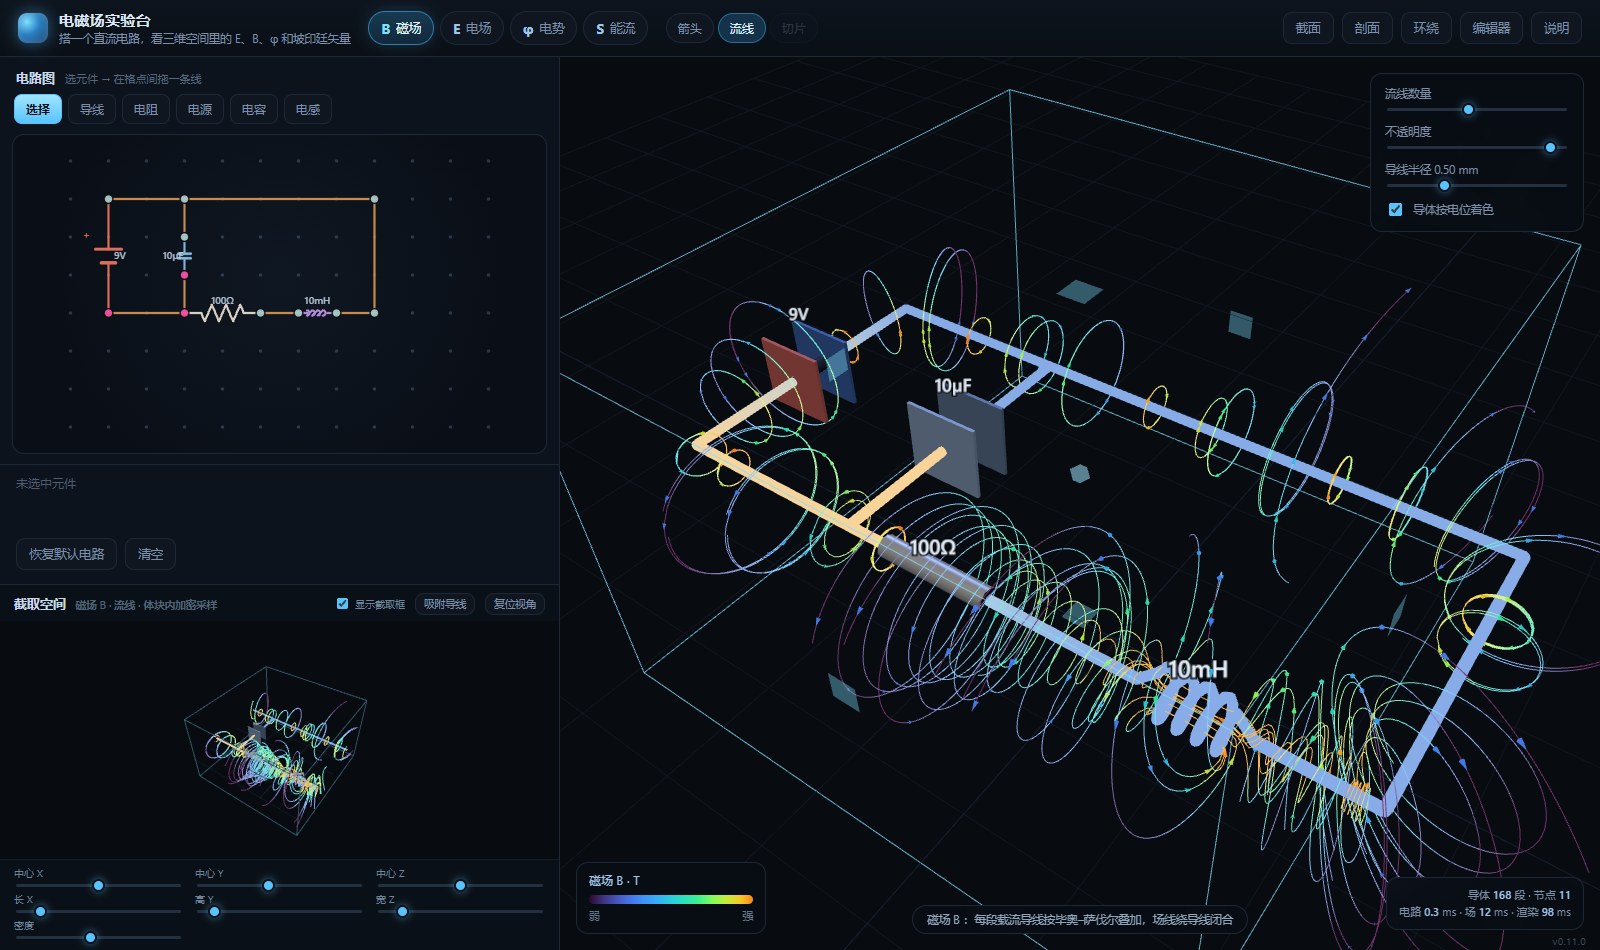
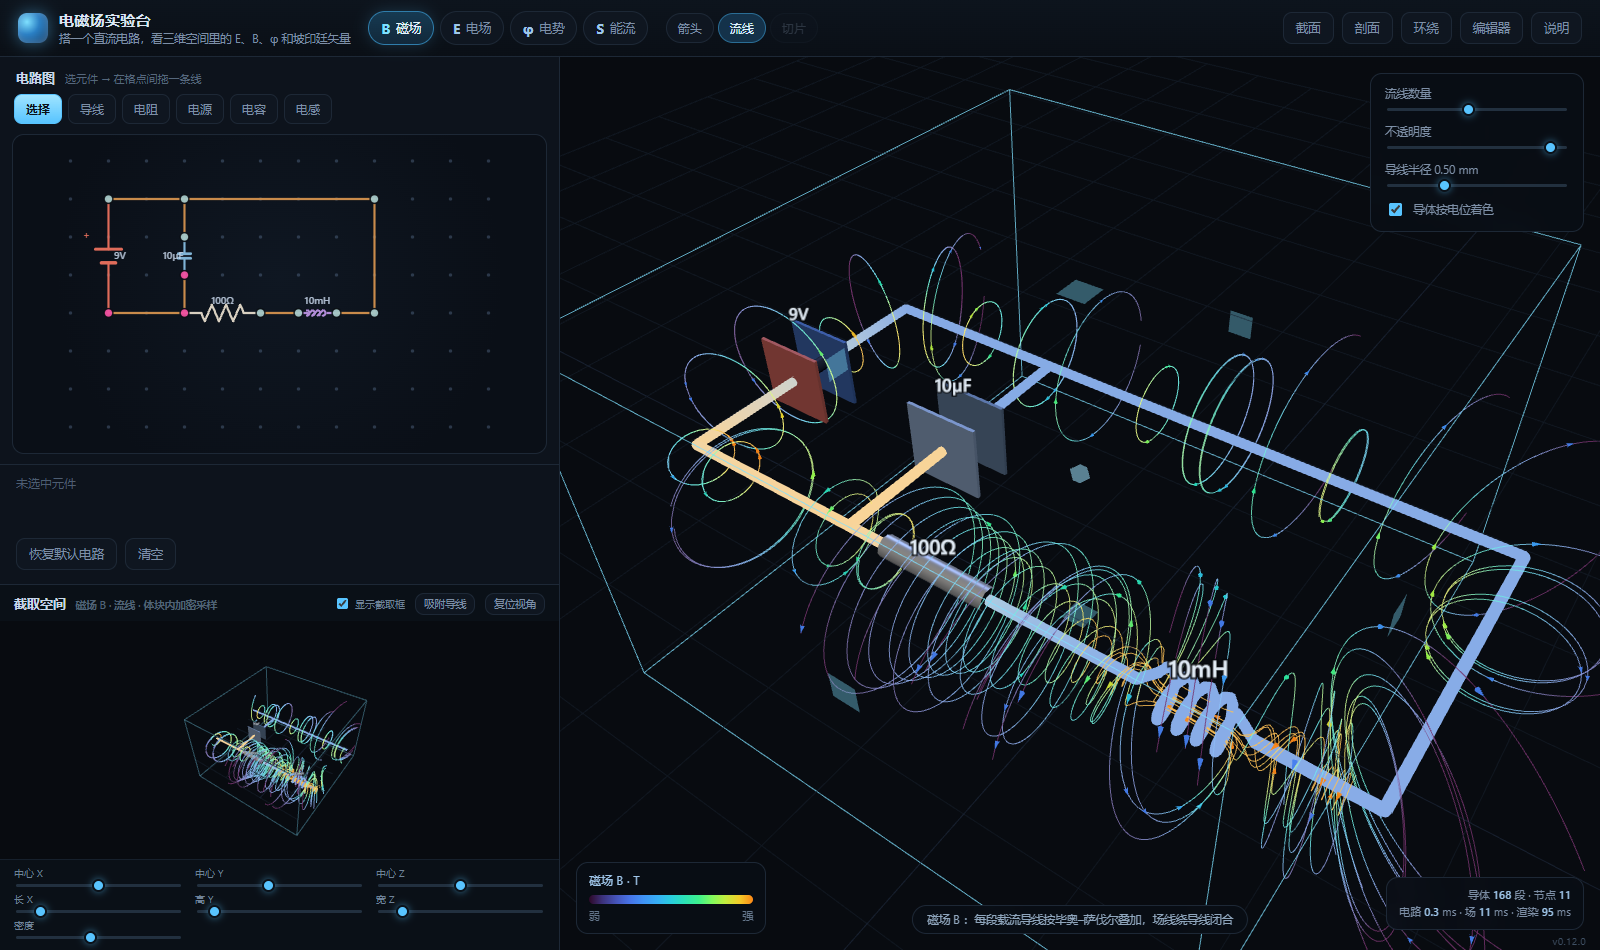
fix: 截面拖拽改为跟随鼠标（原来只取法向分量，水平面横拖没反应）；小盒子撒点半径随盒子缩放；流线分层精简（v0.12.0）
- slice: 拖拽改成整段位移都跟随（含法向分量），水平截面横拖也有可见反馈；
  新增 projectedCenter() 便于定位
- viz: 撒点半径从固定 0.2~1.05 格改成按采样盒子尺寸缩放（rMax = min(1.05, 盒最小边*0.35)）——
  吸附到细导线后盒子只有一两毫米，原来种子全落在盒外，所以只剩几根线
- viz: 半径分层 6 → 4 档、默认条数下调、方向标记 6 → 4 个/线、线透明度 ×0.85，画面更清爽
- test: 新增「截面拖动事件被拾取 / 松手清除」（合成 PointerEvent）
- 版本 0.12.0，文档与截图更新

diff --git a/js/viz.js b/js/viz.js
@@ -260,7 +260,7 @@ export class FieldViz {
     const { solver, field } = o;
     const fn = makeFieldFn(field, solver);
     const density = o.density ?? 0.5;
-    const nLines = Math.round((field === 'E' ? 16 : 10) + density * (field === 'E' ? 120 : 88));
+    const nLines = Math.round((field === 'E' ? 14 : 10) + density * (field === 'E' ? 100 : 68));
     const seeds = this.makeSeeds(solver, box, nLines, field);
 
     const positions = [];
@@ -284,7 +284,7 @@ export class FieldViz {
       allPts.push({ line, lineMags });
 
       // 沿线插方向标记：每条线大约 8 个，起点错开，避免所有标记排成一排
-      const spacing = Math.max(6, Math.floor(line.length / 6));
+      const spacing = Math.max(8, Math.floor(line.length / 4));
       for (let i = spacing; i < line.length - 1; i += spacing) {
         const a = line[Math.max(0, i - 1)], b = line[Math.min(line.length - 1, i + 1)];
         const dx = b[0] - a[0], dy = b[1] - a[1], dz = b[2] - a[2];
@@ -311,7 +311,7 @@ export class FieldViz {
     const mat = new THREE.LineBasicMaterial({
       vertexColors: true,
       transparent: true,
-      opacity: o.opacity ?? 0.95,
+      opacity: (o.opacity ?? 0.95) * 0.85,
       depthWrite: false,
     });
     this.lines = new THREE.LineSegments(geo, mat);
@@ -383,8 +383,16 @@ export class FieldViz {
     }
     if (!cand.length || total <= 0) return [];
 
-    // 磁场按「分层半径」排布，场线会形成一圈圈嵌套家族
-    const radii = [0.22, 0.3, 0.42, 0.58, 0.8, 1.05];
+    // 撒点半径要跟着采样盒子走：吸附到细导线后盒子只有一两毫米，
+    // 用固定的 0.2~1 格半径会让种子全部落在盒外（只剩几根线）
+    const spanMin = Math.min(
+      box.max[0] - box.min[0],
+      box.max[1] - box.min[1],
+      box.max[2] - box.min[2]
+    );
+    const rMax = Math.max(0.008, Math.min(1.05, spanMin * 0.35));
+    const rMin = Math.max(rMax * 0.12, 0.004);
+    const radii = [0.32, 0.58, 0.8, 1.0].map((f) => rMin + (rMax - rMin) * f);
     const seeds = [];
     let guard = 0;
 

diff --git a/js/slice.js b/js/slice.js
@@ -573,6 +573,18 @@ export class SliceTool {
     d.head.addEventListener('pointerup', () => { drag = null; });
   }
 
+  /** 平面中心投影到页面坐标（自检/调试用） */
+  projectedCenter() {
+    const dom = this.scene3d.renderer.domElement;
+    const r = dom.getBoundingClientRect();
+    const c = new THREE.Vector3(...this.plane.center).project(this.scene3d.camera);
+    return {
+      x: r.left + (c.x * 0.5 + 0.5) * r.width,
+      y: r.top + (-c.y * 0.5 + 0.5) * r.height,
+      onScreen: Math.abs(c.x) < 1 && Math.abs(c.y) < 1 && c.z < 1,
+    };
+  }
+
   /** 在主视图里直接操作这块截面：拖动=沿法向平移，Shift+拖动=旋转，滚轮=缩放 */
   _bind3d() {
     const dom = this.scene3d.renderer.domElement;
@@ -627,13 +639,14 @@ export class SliceTool {
         this.scene3d.camera.getWorldDirection(camDir);
         hitPlane.setFromNormalAndCoplanarPoint(camDir, d.point);
         if (ray.ray.intersectPlane(hitPlane, hitPoint)) {
-          const move =
-            (hitPoint.x - d.point.x) * d.n[0] +
-            (hitPoint.y - d.point.y) * d.n[1] +
-            (hitPoint.z - d.point.z) * d.n[2];
-          this.state.cx = d.cx + d.n[0] * move;
-          this.state.cy = d.cy + d.n[1] * move;
-          this.state.cz = d.cz + d.n[2] * move;
+          // 整段位移都跟上：沿法向的分量改变「切在哪」，面内的分量平移取样窗口，
+        // 两个方向都有可见反馈（原来只取法向分量，水平面左右拖就完全没反应）
+          const mx = hitPoint.x - d.point.x;
+          const my = hitPoint.y - d.point.y;
+          const mz = hitPoint.z - d.point.z;
+          this.state.cx = d.cx + mx;
+          this.state.cy = d.cy + my;
+          this.state.cz = d.cz + mz;
         }
       }
       this.update();

diff --git a/js/app.js b/js/app.js
@@ -655,6 +655,31 @@ function runSelfTest() {
       ok(false, '截取空间面板抛错', String(err.message).slice(0, 80));
     }
 
+    // 9.65 截面三维交互：合成一个 pointerdown，看是否被拾取
+    try {
+      state.sliceOn = true;
+      slice.show(true);
+      slice.state.cx = 0; slice.state.cy = 0; slice.state.cz = 0;
+      slice.update();
+      scene3d.camera.updateMatrixWorld();
+      const p = slice.projectedCenter();
+      if (!p.onScreen) {
+        ok(false, '截面中心不在屏幕上（无法测交互）');
+      } else {
+        const target = slice.scene3d.renderer.domElement;
+        target.dispatchEvent(new PointerEvent('pointerdown', {
+          clientX: p.x, clientY: p.y, bubbles: true, cancelable: true, pointerId: 1,
+        }));
+        ok(!!slice._drag, '截面拖动事件被拾取');
+        document.dispatchEvent(new PointerEvent('pointerup', { bubbles: true, pointerId: 1 }));
+        ok(!slice._drag, '松手后拖动状态被清除');
+      }
+      slice.show(false);
+      state.sliceOn = false;
+    } catch (err) {
+      ok(false, '截面交互测试抛错', String(err.message).slice(0, 80));
+    }
+
     // 9.7 断路（电池 + 两根断头线）→ 判定为零场，不画任何东西
     try {
       const backup = circuit.elements;

diff --git a/js/version.js b/js/version.js
@@ -2,5 +2,5 @@
  * version.js —— 版本号的唯一来源
  * BUILD 由 tools/build_single.py 在打包时写入 git 短哈希。
  */
-export const VERSION = '0.11.0';
+export const VERSION = '0.12.0';
 export const BUILD = null;
